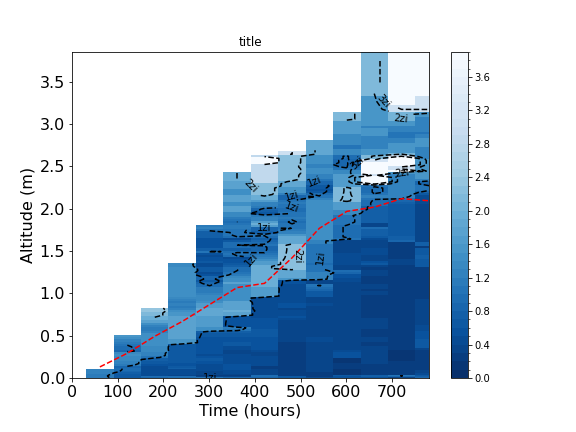
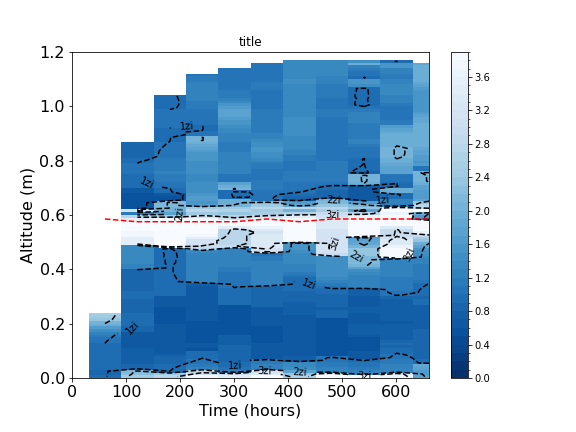
Improved animations

diff --git a/src/Variance.py b/src/Variance.py
@@ -16,6 +16,14 @@ import tools0 as tl
 import time
 import plot_tools as pltl
 
+def infocas(model):
+    textcas0={};textcas=None
+    textcas0['BOMEX2D']='2D Meso-NH model (v5.5.1) \nBOMEX (Dx=Dz=25m, Dt=1s)'
+    if model in textcas0.keys():
+        textcas=textcas0[model]
+    print('textcas ',model,textcas)
+    return textcas
+
 def mkdir(path):
    try:
      os.mkdir(path)
@@ -43,20 +51,63 @@ def variance(tmp):
 def skewness(tmp):
     return st.skew(tmp)
 
-def findlevels(var1c):
+def findlevels(var):
     levels = {}; tmp=None
     levels['SVT004']=[0,9,0.1]
     levels['SVT005']=[0,400,10]
     levels['SVT006']=[0,200,5]
     levels['RVT']   =[4,12,0.1]
-    levels['WT']    =[-2.5,2.5,0.1]
+    levels['WT']    =[-2.,2.,0.05]
     levels['DIVUV'] =[-0.04,0.04,0.005]
-    if var1c in levels.keys():
-        tmp0  = levels[var1c]
+    levels['RVT']   =[0,17,1]
+    levels['RCT']   =[0,1,0.05]
+    if var in levels.keys():
+        tmp0  = levels[var]
         tmp   = np.arange(tmp0[0],tmp0[1],tmp0[2])
         if len(tmp0)>3:
             tmp = np.append(tmp0[3],tmp)
     return tmp
+
+def findunits(fl_dia,var):
+    try:
+        units=fl_dia[var].units
+    except:
+        units = '-'
+        pass
+    if var in ('RVT','RNPM','RCT'):
+        units='g/kg'
+    elif var in ('THLM','THV','THT'):
+        units='K'
+    elif var in ('WT'):
+        units='m/s'
+    return units
+
+def findname(var):
+    varname=var;varname0={}
+    varname0['RVT']='Specific humidity'
+    varname0['RNPM']='Total humidity'
+    varname0['RCT']='Liquid water content'
+    varname0['SVT004']='Surface-emitted tracer'
+    varname0['SVT005']='Cloud-base tracer'
+    varname0['SVT006']='Cloud-top or PBL-top tracer'
+    varname0['WT']='Vertical velocity'
+    if var in varname0.keys():
+        varname=varname0[var]
+    return varname
+
+# def findinfos(fl_dia,var):
+    
+#     if var in fl_dia.variables:
+#         units=fl_dia[var].units
+#         varname=fl_dia[var].standard_name
+#     if var in ('RVT','RNPM','RCT'):
+#         units='g/kg'
+#     elif var in ('THLM','THV'):
+#         units=fl_dia['THT'].units
+#         varname=var
+#     return units,varname
+        
+    
 
 def findextrema(model):
     zminmax = None
@@ -82,9 +133,11 @@ def plot2D(data,x,y,filesave
            ,labelx='Undef',labely='Undef',zminmax=None
            ,cmap='Blues_r',fts=18,size=[18.0,12.0]
            ,levels=None,RCT=None,idx_zi=None
-           ,data2=None,var2c=None,title2='Title 2'
-           ,timech=None,joingraph=False):
+           ,data2=None,var2c=None
+           ,timech=None,joingraph=False
+           ,textcas=None):
     
+
     #fig   = plt.figure()
     if var2c is not None and not joingraph:
         fig, ax = plt.subplots(2, 1, sharex=True, sharey=True)
@@ -94,6 +147,9 @@ def plot2D(data,x,y,filesave
         size    = [18.0,7.0]
         #ax    = fig.add_subplot(111)
     #print(ax)
+    sign   = True
+    signature = '$\it{Florent\ Brient}$'
+    
     levels = findlevels(var1c)
     cmap   = findcmap(var1c)
     for ij in np.arange(len(ax)):
@@ -119,7 +175,7 @@ def plot2D(data,x,y,filesave
         #fig.set_size_inches(15.0, 6.5) #width, height
         
         if RCT is not None:
-            ax[ij].contour(x,y,RCT,levels=[0.01],colors='k',linewidths=2.0,linestyles='dotted')
+            ax[ij].contour(x,y,RCT,levels=[0,0.01],colors='k',linewidths=2.0,linestyles='dotted')
     
         if idx_zi is not None:
             ax[ij].axhline(y=zi[0,idx_zi],color='k',linewidth=1.0,linestyle='--')
@@ -131,12 +187,19 @@ def plot2D(data,x,y,filesave
         #ax[ij].tick_params(axis='x', labelsize=fts)
         ax[ij].tick_params(axis='both', labelsize=fts)
         
+        ax[ij].set_title(title[ij],fontsize=fts)
 
         #plt.xticks(size=fts)
         #plt.yticks(size=fts)
     
     if timech is not None:
-        plt.text(0.02,0.9,timech, fontsize=22, transform=plt.gcf().transFigure)
+        #timech=r"$\bf{"+timech+"}$"
+        plt.text(0.7,0.93,timech, fontsize=22, transform=plt.gcf().transFigure\
+                 ,color='red')
+    if textcas is not None:
+        plt.text(0.02,0.92,textcas, fontsize=18, transform=plt.gcf().transFigure)
+    if sign:
+        plt.text(0.85,0.05,signature, fontsize=16, transform=plt.gcf().transFigure)
         
     fig.set_size_inches(size[0], size[1])
     fig.savefig(filesave + '.png')
@@ -155,22 +218,24 @@ def plot2D(data,x,y,filesave
 
 
 path0 = '/home/fbrient/MNH/'
-model = 'FIRE2Dreal'
+#model = 'FIRE2Dreal'
 #model = 'IHOP2D'
-#model = 'BOMEX2D'
+model = 'BOMEX2D'
 #model = 'IHOP2DNW'
 file0 = 'EXP.1.VTIME.OUT.TTIME.nc'
 VTIME = 'V0001'
 
 if model == 'FIRE2Dreal':
     EXP   = 'FIR2D'
-    #EXP   = 'F2DNW'
+    EXP   = 'F2DNW'
+    #EXP   = 'F2DBI'
+    VTIME = 'V0001'
 elif model == 'IHOP2D':
     EXP   = 'IHOP0'
 elif model == 'IHOP2DNW':
     EXP   = 'IHOP2'
 elif model == 'BOMEX2D':
-    #EXP   = 'Ru0x0'
+    #EXP   = 'BOM2D'
     EXP   = 'B2DNW'
     VTIME = 'V0001'
 
@@ -186,22 +251,22 @@ var1c  = 'SVT004'
 
 var2   = None
 var2c  = None
-var2c  = 'SVT006'
+var2c  = 'WT'
 
 varall  = ''.join([var1c,var2c]) if var2c is not None else var1c
 varall2 = varall
 
 # Time
 #hours = np.arange(1,840,1)
-hours = np.arange(400,440,1)
-#hours = np.arange(1,718,1)
+#hours = np.arange(400,440,1)
+hours = np.arange(1,720,1)
 
 
 # Choices
 makefigures=1
 pltcloud=True
 pltspectra=False
-joingraph=True
+joingraph=False
 if joingraph:
     varall2=varall+'_join'
 
@@ -222,7 +287,10 @@ inv       = 'THLM'
 offset    = 0.25
     
 # Save figures
-pathsave0="../figures/"+EXP+"/"
+textcas=infocas(model)
+pathsave0="../figures/"+model+"/"
+mkdir(pathsave0)
+pathsave0=pathsave0+EXP+"/"
 mkdir(pathsave0)
 filesave0=pathsave0+'_'.join([varall2,EXP,VTIME])+'_TTIME'
 filesptr0=pathsave0+'spectra_'+'_'.join([varall,EXP,VTIME]) \
@@ -234,6 +302,10 @@ for ih,hour in enumerate(hours):
     filesptr1 = filesptr0.replace('TTIME','{0:03}'.format(hour))
     print(file)
     fl_dia = nc.Dataset(file, 'r' )
+    
+    title=[findname(var1c)+' ('+findunits(fl_dia,var1c)+')']
+    if var2c is not None:
+        title+=[findname(var2c)+' ('+findunits(fl_dia,var2c)+')']
     
     if ih==0:
         # Open dims
@@ -295,13 +367,14 @@ for ih,hour in enumerate(hours):
         filesave = filesave0.replace('TTIME','{0:03}'.format(hour))
         RCT=None
         if pltcloud and ('RCT' in fl_dia.variables):
-            RCT = ajax(fl_dia['RCT'][:].squeeze().T,of=1000.)        
+            RCT = ajax(fl_dia['RCT'][:].squeeze().T,of=1000.)    
         fig,ax   = plot2D(var.T,xi,zi,filesave,
-                          var1c=var1c,title=var1c,zminmax=zminmax,
+                          var1c=var1c,title=title,zminmax=zminmax,
                           labelx='x (km)',labely='z (km)',
                           RCT=RCT,idx_zi=idxzi[ih],
-                          data2=var2.T,var2c=var2c,title2=var2c,
-                          timech=timech,joingraph=joingraph)
+                          data2=var2.T,var2c=var2c,
+                          timech=timech,joingraph=joingraph,
+                          textcas=textcas)
         #plt.contourf(xi,zi,var.T)
         #plt.show()
         
